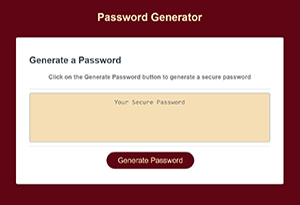
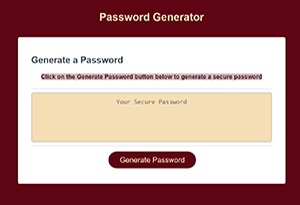
updated readme, index, style files and thumnail image

diff --git a/index.html b/index.html
@@ -15,7 +15,7 @@
       <div class="card">
         <div class="card-header">
           <h2>Generate a Password</h2>
-          <h4 style="text-align: center; color: grey">Click on the Generate Password button below to generate a secure password</h4>
+          <h4 style="text-align: center"><mark>Click on the Generate Password button below to generate a secure password</mark></h4>
         </div>
         <div class="card-body">
           <textarea

diff --git a/style.css b/style.css
@@ -27,6 +27,11 @@ h1{
   color: wheat;
 }
 
+mark{
+  background-color:#cac0c2;
+  color: #5f0514;
+}
+
 header {
   text-align: center;
   padding: 20px;

diff --git a/README.md b/README.md
@@ -1,19 +1,17 @@
-# RandomPasswordGen
-[![Thumbnail](images/passwordgen.jpg)](https://github.com/sskumar4/RandomPasswordGen)  
+## Project Name: Password Generator
+[![Thumbnail](images/passwordgen.jpg)](https://sskumar4.github.io/RandomPasswordGen)  
 
-# Links to deployed application and repository:
+## Links to deployed application and repository:
 * [Deployed Application](https://sskumar4.github.io/RandomPasswordGen)
-* [Repository](https://github.com/sskumar4/PasswordGenerator)
+* [Repository](https://github.com/sskumar4/RandomPasswordGen)
 
-# Project Name: Password Generator
-#
-# Introduction:   
-An application that generates a random password based on user-selected criteria with greater security. The app will run in the browser and feature dynamically updated HTML and CSS powered by the JavaScript code. It will also feature a clean and polished user interface that adapts to multiple screen sizes.
+## Introduction:   
+An application that generates a random password with greater security based on user-selected criteria. The app will run in the browser and feature dynamically updated HTML and CSS powered by the JavaScript code. It will also feature a clean and polished user interface that adapts to multiple screen sizes.
 
-# Technologies: 
+## Technologies: 
 HTML, CSS, JavaScript
 
-# Features
+## Features
 Used semantic html
 Files: 
   * index.html, script.js and style.css
@@ -26,7 +24,7 @@ Developed the app with the following features:
   
 Checked script.js code using javascript validator
 
-# Launch
+## Launch
 
 Launch [Deployed Application](https://sskumar4.github.io/RandomPasswordGen) To genearate password, click the Generate Password button and answer all password criteria. 
 
